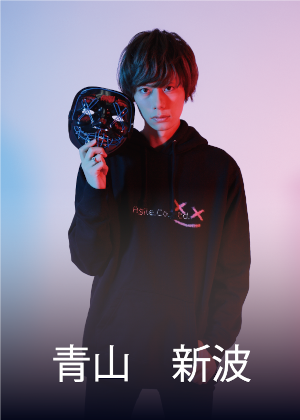
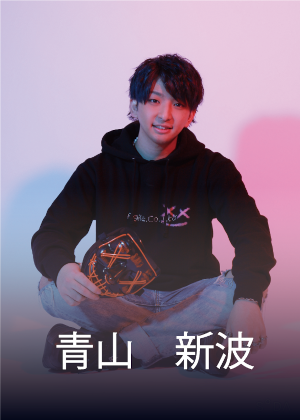
Add files via upload

diff --git a/member.html b/member.html
@@ -46,11 +46,11 @@
     <main>
         <h2 class="page-title" id="member-title">Member</h2>
         <picture id="member-pic">
-            <img src="images/aoyama.png" alt="" class="member-img">
             <img src="images/kawakami.png" alt="" class="member-img">
+            <img src="images/aoyama.png" alt="" class="member-img">
             <img src="images/ozaki.png" alt="" class="member-img">
         </picture>
-        <section id="member-content-up">
+        <section id="member-content-down">
             <div class="member-content-box">
                 <h3 class="member-name">青山 新波</h3>
                 <p class="member-desc">
@@ -63,6 +63,20 @@
                     数々の実績を残す。
                 </p>
             </div>
+            
+        </section>
+        <section id="member-content-up" >
+            <div class="member-content-box" id="member-content-right-box">
+                <h3 class="member-name">川上 聡太</h3>
+                <p class="member-desc">
+                    Agile公式アドバイザー。マネジメントのリーダーを務める。<br>
+                    2018年11月に17LIVEで配信を始め、<br>
+                    初月から月収30万円超。その後も活躍を続け、<br>
+                    月間ランキングにて全ライバー1位を獲得。<br>
+                    月間最高1億3000万コイン達成等<br>
+                    数々の実績を残す。<br>
+                </p>
+            </div>
             <div class="member-content-box" id="member-content-right-box">
                 <h3 class="member-name">尾崎 聖也</h3>
                 <p class="member-desc">
@@ -73,19 +87,6 @@
                     ライブ配信を始めとするIT業界の知識に長けており、<br>
                     前社では営業成績トップを1年継続し、<br>
                     管理職に就任した経歴もある。<br>
-                </p>
-            </div>
-        </section>
-        <section id="member-content-down">
-            <div class="member-content-box">
-                <h3 class="member-name">川上 聡太</h3>
-                <p class="member-desc">
-                    Agile公式アドバイザー。マネジメントのリーダーを務める。<br>
-                    2018年11月に17LIVEで配信を始め、<br>
-                    初月から月収30万円超。その後も活躍を続け、<br>
-                    月間ランキングにて全ライバー1位を獲得。<br>
-                    月間最高1億3000万コイン達成等<br>
-                    数々の実績を残す。<br>
                 </p>
             </div>
         </section>

diff --git a/contact.html b/contact.html
@@ -47,36 +47,36 @@
         <h2 class="page-title">Contact</h2>
         <h3 class="page-sub-title" id="contact-sub-title">ライバーになるための道筋</h3>
         <section class="contact-content">
-            <div class="contact-part1">
-                <img src="" alt="">
+            <div class="contact-colum">
+                <img src="images/step1.jpg" alt="" class="contact-img">
                 <div class="contact-content-box">
                     <h3>STEP1</h3>
                     <p>【ライバー募集について】<br>
                         からフォームを記入</p>
                 </div>
             </div>
-            <div class="contact-part2">
-                <img src="" alt="">
+            <div class="contact-colum">
                 <div class="contact-content-box">
                     <h3>STEP2</h3>
                     <p>Agile担当と簡単な<br>
                         顔合わせ(通話でも可能)</p>
                 </div>
+                <img src="images/step2.jpg" alt="" class="contact-img">
             </div>
-            <div class="contact-part3">
-                <img src="" alt="">
+            <div class="contact-colum">
+                <img src="images/step3.jpg" alt="" class="contact-img">
                 <div class="contact-content-box">
                     <h3>STEP3</h3>
                     <p>17Live 登録~配信<br>
                         までの流れの説明</p>
                 </div>
             </div>
-            <div class="contact-part4">
-                <img src="" alt="">
+            <div class="contact-colum">
                 <div class="contact-content-box">
                     <h3>STEP4</h3>
                     <p>配信開始</p>
                 </div>
+                <img src="images/step4.jpg" alt="" class="contact-img">
             </div>
         </section>
     </main>

diff --git a/style.css b/style.css
@@ -242,6 +242,26 @@ footer {
     flex-direction: column;
     justify-content: center;
 }
+
+.contact-colum {
+    display: grid;
+    grid-template-columns: 1fr 1fr;
+    grid-column-gap: 8%;
+    font-size: 2rem;
+}
+
+.contact-content-box {
+    background: rgba(0, 0, 0, 0.7);
+    display: inline-grid;
+    max-width: 400px;
+    justify-self: left;
+    width: 400px;
+}
+
+.contact-img {
+    display: -ms-inline-grid;
+    justify-self: right;
+}
 @media screen and (max-width: 800px) {
     .mavbar_container {
         display: flex;
